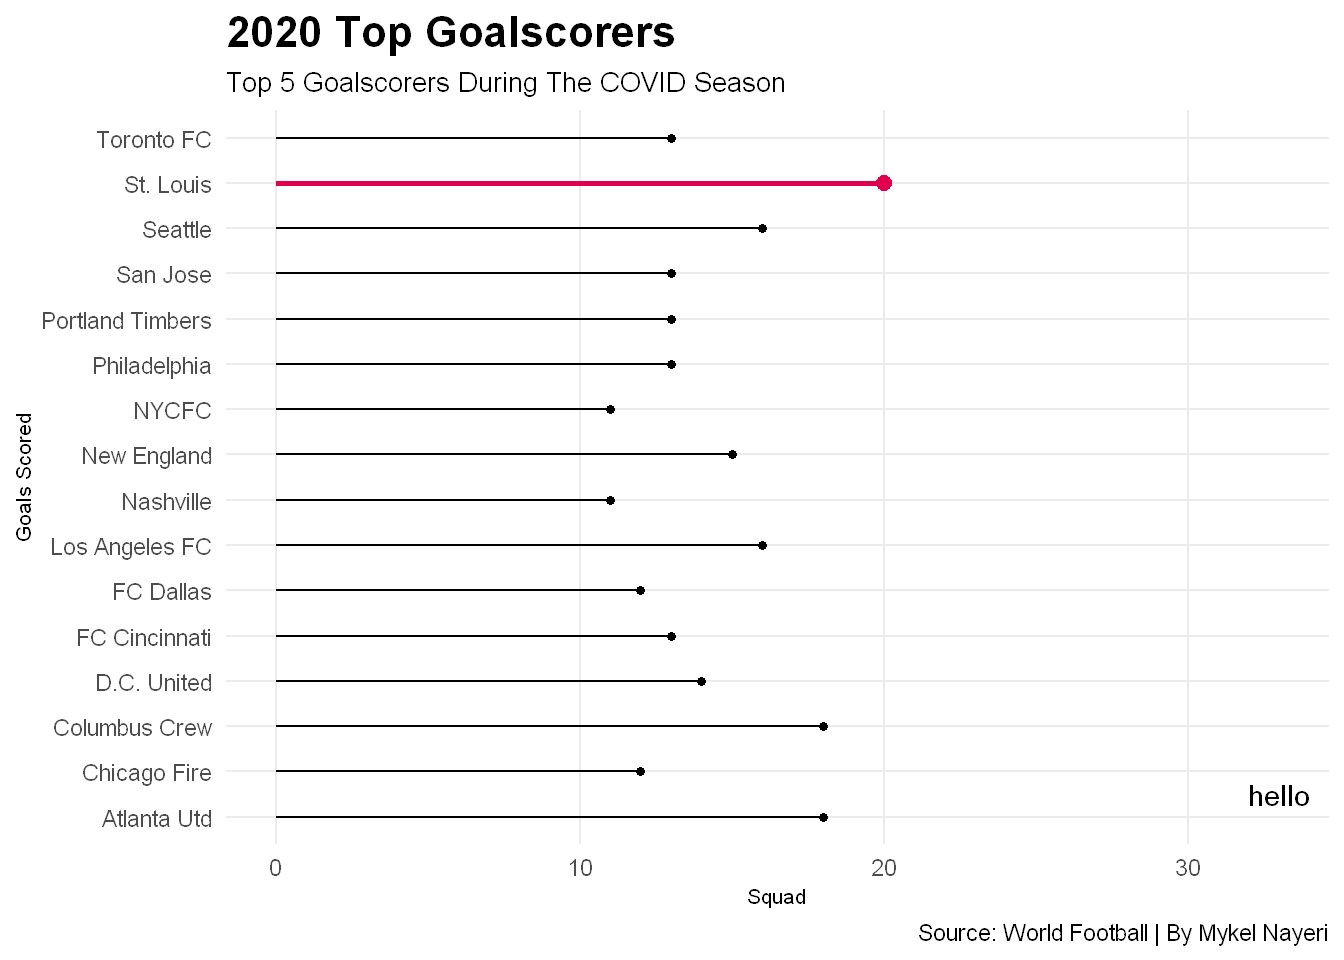
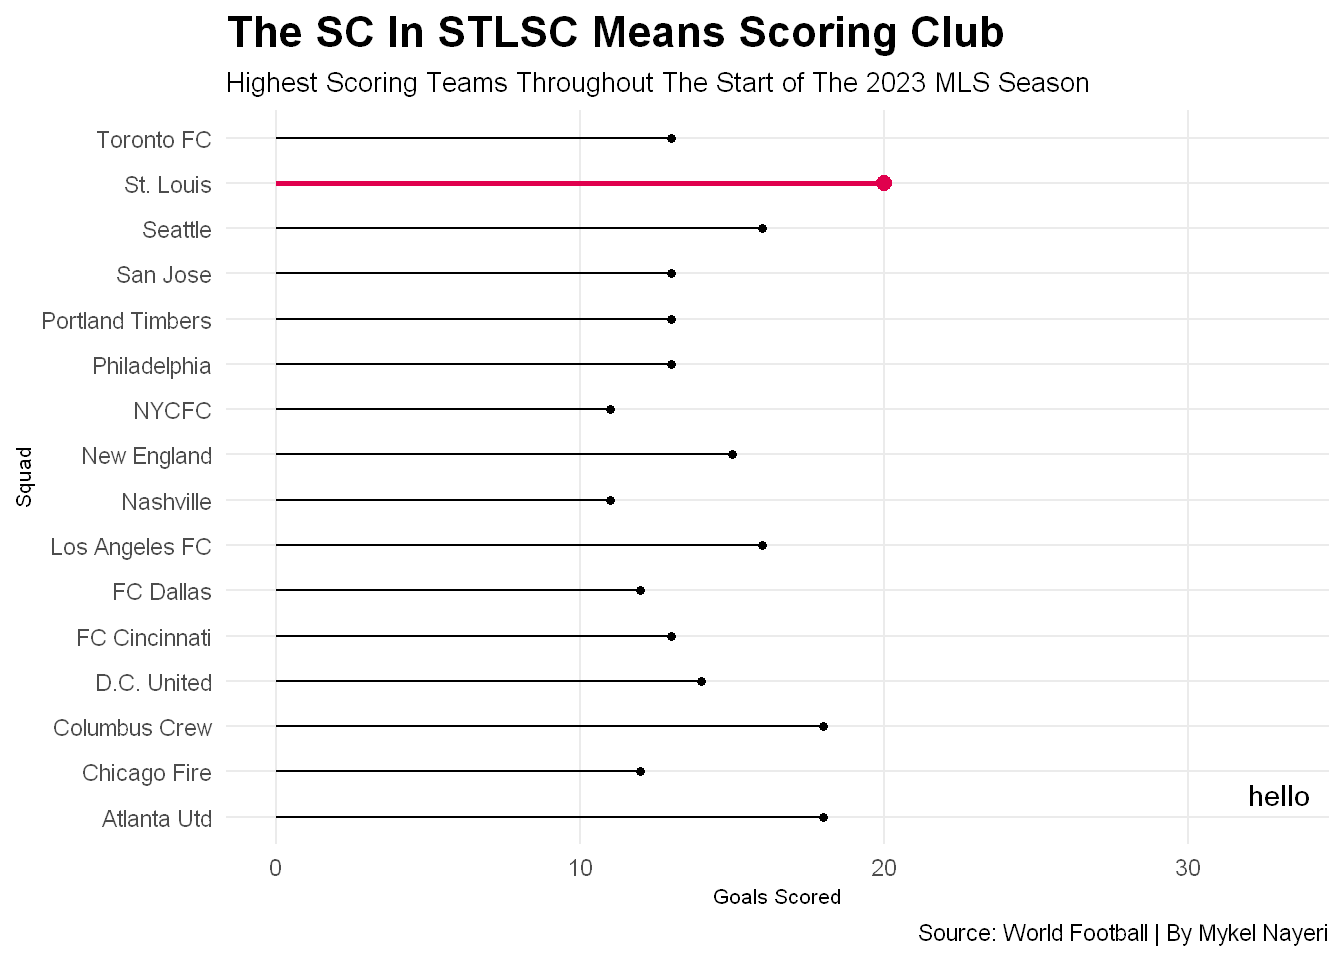
2.3

Changed region(s): [[0.1562, 0.0, 0.8125, 0.0938], [0.5312, 0.9062, 0.625, 0.9688], [0.0, 0.4375, 0.0312, 0.5625]]

diff --git a/posts/is-st-louis-city-sc-the-best-expansion-franchise-ever/index.html b/posts/is-st-louis-city-sc-the-best-expansion-franchise-ever/index.html
@@ -227,7 +227,7 @@ code span.wa { color: #60a0b0; font-weight: bold; font-style: italic; } /* Warni
 <span id="cb1-16"><a href="#cb1-16" aria-hidden="true" tabindex="-1"></a>  <span class="fu">geom_text</span>(<span class="at">data=</span>STL, <span class="fu">aes</span>(<span class="at">x=</span><span class="dv">33</span>, <span class="at">y=</span><span class="fl">1.5</span>, <span class="at">label=</span><span class="st">"hello"</span>)) <span class="sc">+</span></span>
 <span id="cb1-17"><a href="#cb1-17" aria-hidden="true" tabindex="-1"></a>  <span class="co">#geom_text(data=STL, aes(x=Gls_Standard, y=Squad, label=Squad)) +</span></span>
 <span id="cb1-18"><a href="#cb1-18" aria-hidden="true" tabindex="-1"></a>  <span class="co">#geom_encircle(data=STL, aes(x=Gls_Standard, y=Squad), s_shape=.1, expand=.01, colour="Purple")+  </span></span>
-<span id="cb1-19"><a href="#cb1-19" aria-hidden="true" tabindex="-1"></a>  <span class="fu">labs</span>(<span class="at">x=</span><span class="st">"Squad"</span>, <span class="at">y=</span><span class="st">"Goals Scored"</span>, <span class="at">title=</span><span class="st">"2020 Top Goalscorers"</span>, <span class="at">subtitle=</span><span class="st">"Top 5 Goalscorers During The COVID Season"</span>, <span class="at">caption=</span><span class="st">"Source: World Football | By Mykel Nayeri"</span>) <span class="sc">+</span> </span>
+<span id="cb1-19"><a href="#cb1-19" aria-hidden="true" tabindex="-1"></a>  <span class="fu">labs</span>(<span class="at">x=</span><span class="st">"Goals Scored"</span>, <span class="at">y=</span><span class="st">"Squad"</span>, <span class="at">title=</span><span class="st">"The SC In STLSC Means Scoring Club"</span>, <span class="at">subtitle=</span><span class="st">"Highest Scoring Teams Throughout The Start of The 2023 MLS Season"</span>, <span class="at">caption=</span><span class="st">"Source: World Football | By Mykel Nayeri"</span>) <span class="sc">+</span> </span>
 <span id="cb1-20"><a href="#cb1-20" aria-hidden="true" tabindex="-1"></a>  <span class="fu">theme_minimal</span>() <span class="sc">+</span> </span>
 <span id="cb1-21"><a href="#cb1-21" aria-hidden="true" tabindex="-1"></a>  <span class="fu">theme</span>(</span>
 <span id="cb1-22"><a href="#cb1-22" aria-hidden="true" tabindex="-1"></a>    <span class="at">plot.title =</span> <span class="fu">element_text</span>(<span class="at">size =</span> <span class="dv">16</span>, <span class="at">face =</span> <span class="st">"bold"</span>),</span>
@@ -251,7 +251,7 @@ code span.wa { color: #60a0b0; font-weight: bold; font-style: italic; } /* Warni
 <span id="cb2-6"><a href="#cb2-6" aria-hidden="true" tabindex="-1"></a>  <span class="fu">geom_point</span>(<span class="at">data=</span>possession, <span class="fu">aes</span>(<span class="at">x=</span>Poss, <span class="at">y=</span>Squad), <span class="at">color=</span><span class="st">"light grey"</span>) <span class="sc">+</span></span>
 <span id="cb2-7"><a href="#cb2-7" aria-hidden="true" tabindex="-1"></a>  <span class="fu">geom_point</span>(<span class="at">data=</span>possession, <span class="fu">aes</span>(<span class="at">x=</span>Poss, <span class="at">y=</span>Squad), <span class="at">color=</span><span class="st">"light grey"</span>)<span class="sc">+</span></span>
 <span id="cb2-8"><a href="#cb2-8" aria-hidden="true" tabindex="-1"></a>  <span class="fu">geom_point</span>(<span class="at">data=</span>STL2, <span class="fu">aes</span>(<span class="at">x=</span>Poss, <span class="at">y=</span>Squad), <span class="at">color=</span><span class="st">"#FEDB00"</span>) <span class="sc">+</span></span>
-<span id="cb2-9"><a href="#cb2-9" aria-hidden="true" tabindex="-1"></a>  <span class="fu">labs</span>(<span class="at">x=</span><span class="st">"Player Data"</span>, <span class="at">y=</span><span class="st">"Expected Goals Scored"</span>, <span class="at">title=</span><span class="st">"2020 Top Expected Goalscorers"</span>, <span class="at">subtitle=</span><span class="st">"2020 Top 5 Soccer Stat Leaders for Goals They Are Expected To Score."</span>, <span class="at">caption=</span><span class="st">"Source: World Football | By Mykel Nayeri"</span>) <span class="sc">+</span> </span>
+<span id="cb2-9"><a href="#cb2-9" aria-hidden="true" tabindex="-1"></a>  <span class="fu">labs</span>(<span class="at">x=</span><span class="st">"Possession Pecentage"</span>, <span class="at">y=</span><span class="st">"Squad"</span>, <span class="at">title=</span><span class="st">"Possession Does Not Equal Success"</span>, <span class="at">subtitle=</span><span class="st">"St. Louis is a mid-table team based on possession but still find success."</span>, <span class="at">caption=</span><span class="st">"Source: World Football | By Mykel Nayeri"</span>) <span class="sc">+</span> </span>
 <span id="cb2-10"><a href="#cb2-10" aria-hidden="true" tabindex="-1"></a>  <span class="fu">theme_minimal</span>() <span class="sc">+</span> </span>
 <span id="cb2-11"><a href="#cb2-11" aria-hidden="true" tabindex="-1"></a>  <span class="fu">theme</span>(</span>
 <span id="cb2-12"><a href="#cb2-12" aria-hidden="true" tabindex="-1"></a>    <span class="at">plot.title =</span> <span class="fu">element_text</span>(<span class="at">size =</span> <span class="dv">16</span>, <span class="at">face =</span> <span class="st">"bold"</span>),</span>
@@ -277,7 +277,7 @@ code span.wa { color: #60a0b0; font-weight: bold; font-style: italic; } /* Warni
 <span id="cb3-8"><a href="#cb3-8" aria-hidden="true" tabindex="-1"></a>  <span class="fu">geom_bar</span>(<span class="at">data=</span>STL3, <span class="fu">aes</span>(<span class="at">x=</span><span class="fu">reorder</span>(Squad, Int), <span class="at">weight=</span>Int),<span class="at">fill=</span><span class="st">"#0C2340"</span>) <span class="sc">+</span> </span>
 <span id="cb3-9"><a href="#cb3-9" aria-hidden="true" tabindex="-1"></a>  <span class="fu">scale_fill_manual</span>(<span class="at">values =</span> <span class="st">"#0C2340"</span>) <span class="sc">+</span></span>
 <span id="cb3-10"><a href="#cb3-10" aria-hidden="true" tabindex="-1"></a>  <span class="fu">coord_flip</span>()<span class="sc">+</span> </span>
-<span id="cb3-11"><a href="#cb3-11" aria-hidden="true" tabindex="-1"></a>  <span class="fu">labs</span>(<span class="at">x=</span><span class="st">"Player"</span>, <span class="at">y=</span><span class="st">"Interceptions"</span>, <span class="at">title=</span><span class="st">"Carrying The Ball In The Final Third"</span>, <span class="at">subtitle=</span><span class="st">"Top 5 Final Third Carries In 2020"</span>, <span class="at">caption=</span><span class="st">"Source: World Football | By Mykel Nayeri"</span>) <span class="sc">+</span> </span>
+<span id="cb3-11"><a href="#cb3-11" aria-hidden="true" tabindex="-1"></a>  <span class="fu">labs</span>(<span class="at">x=</span><span class="st">"Squad"</span>, <span class="at">y=</span><span class="st">"Interceptions"</span>, <span class="at">title=</span><span class="st">"St. Louis Wants The Ball Back"</span>, <span class="at">subtitle=</span><span class="st">"St. Louis is the seventh leading team in the MLS at interceptions."</span>, <span class="at">caption=</span><span class="st">"Source: World Football | By Mykel Nayeri"</span>) <span class="sc">+</span> </span>
 <span id="cb3-12"><a href="#cb3-12" aria-hidden="true" tabindex="-1"></a>  <span class="fu">theme_minimal</span>() <span class="sc">+</span> </span>
 <span id="cb3-13"><a href="#cb3-13" aria-hidden="true" tabindex="-1"></a>  <span class="fu">theme</span>(</span>
 <span id="cb3-14"><a href="#cb3-14" aria-hidden="true" tabindex="-1"></a>    <span class="at">plot.title =</span> <span class="fu">element_text</span>(<span class="at">size =</span> <span class="dv">16</span>, <span class="at">face =</span> <span class="st">"bold"</span>),</span>

diff --git a/index.html b/index.html
@@ -166,7 +166,7 @@ ul.task-list li input[type="checkbox"] {
 
 <div class="quarto-listing quarto-listing-container-default" id="listing-listing">
 <div class="list quarto-listing-default">
-<div class="quarto-post image-right" data-index="0" data-categories="Project 2" data-listing-date-sort="1720069200000" data-listing-file-modified-sort="1683137276545" data-listing-reading-time-sort="2.055">
+<div class="quarto-post image-right" data-index="0" data-categories="Project 2" data-listing-date-sort="1720069200000" data-listing-file-modified-sort="1683139349340" data-listing-reading-time-sort="2.11">
 <div class="thumbnail">
 <p><a href="./posts/is-st-louis-city-sc-the-best-expansion-franchise-ever/index.html"> <img src="./posts/is-st-louis-city-sc-the-best-expansion-franchise-ever/image.png" class="thumnail-image"> </a></p>
 </div>
